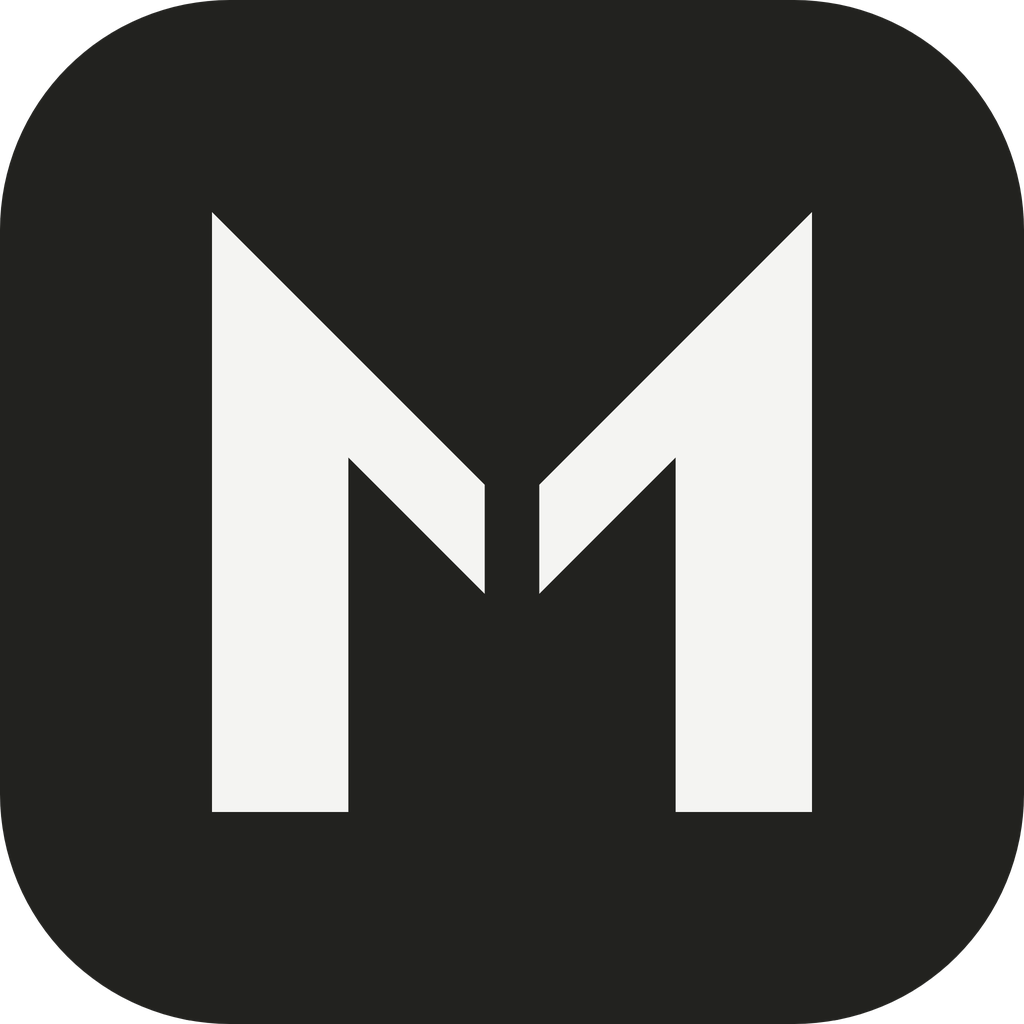
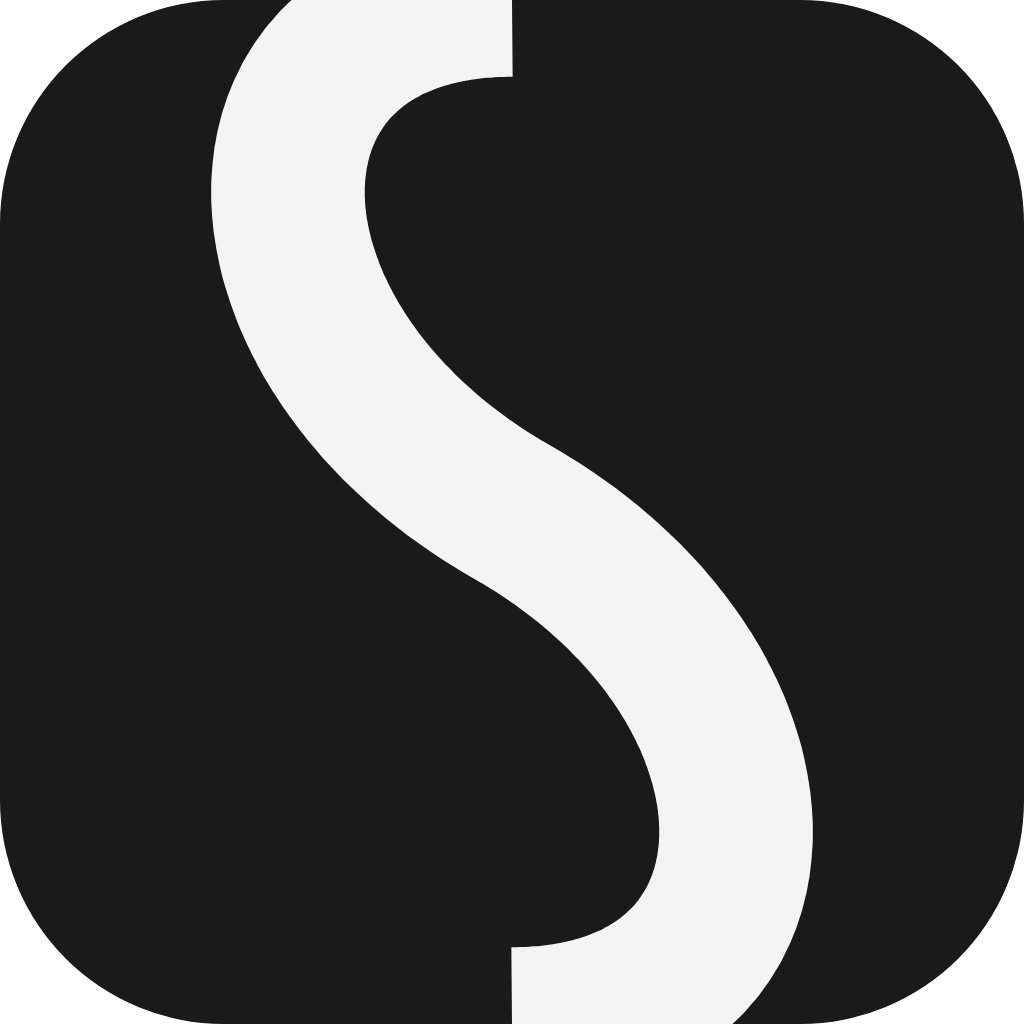
docs: correct display routing and adopt the EmergeShift brand
Show both compositors as clients of the display broker, add Route B, and
replace the old M mark with the new identity-kit assets.

diff --git a/brand/README.md b/brand/README.md
@@ -1,117 +1,22 @@
-# mixumOS 品牌标记
+# mixumOS brand
 
-> v0.2 · 2026.10 · 资产位于 `mixumos/brand/`
+Product mark from the **EmergeShift identity kit**: the same square, cut by a
+7.2-unit seam. The seam is open — two states held apart, the workspace an agent
+lives in.
 
-![mixumOS 品牌页](brand-sheet.png)
-
-## 一句话
-
-**M 被从中间切开。缺口就是分叉。**
-
-M 是 mixum 的首字母，也是一条时间线：
-
-- **实心 M**：直角、切边，没有描边和圆头。它首先是一枚钢印，其次才是一个字母。
-- **4 单位切口**：从外谷点到内谷点，把 M 的头部切开。这是当前 head，也是下一次 fork / 回退的位置。
-- **左半 / 右半**：左半是已经发生的快照，右半是 agent 正在写入的未来；两半仍然拼成同一个 M。
-- **单色**：标志只用墨与纸。信号蓝属于界面、状态和链接，不属于标志。
-
-这一版参考的是 Arch / Debian / Red Hat / CentOS 的共同点：一个**实心、单色、能缩到 16 px** 的轮廓，而不是一个带两色分割或渐变的科技图标。
-
-## 标志
-
-| 项 | 值 |
+| File | Use |
 |---|---|
-| 视觉尺寸 | 44 × 44（画布 64） |
-| 左半 | `M10 52 V8 L30 28 V36 L20 26 V52 Z` |
-| 右半 | `M34 28 L54 8 V52 H44 V26 L34 36 Z` |
-| 切口 | `x 30–34`，`y 28–36`，4 × 8 单位 |
-| 描边 / 圆角 | 无 |
+| `svg/lockup-horizontal.svg` | README header, light backgrounds |
+| `svg/lockup-horizontal-inverse.svg` | dark backgrounds |
+| `svg/mark.svg` / `svg/mark-inverse.svg` | square mark |
+| `svg/app-icon.svg` | app icon / social preview |
+| `svg/avatar.svg` / `svg/avatar-ink.svg` | org and social avatars |
+| `svg/wordmark.svg` | wordmark only |
+| `png/` | raster exports (32–1024) |
 
-缩到 16 px 时，切口收成一条发丝线，它首先是一个加粗的 M；放大后才看见分叉。
+SVGs are the source of truth. Ink `#1A1A18`, paper `#F4F4F2`, transition blue
+`#3A46FF` (accent only, never the field). Keep the mark solid and single-colour;
+no radius, stroke, gradient or shadow.
 
-## 字标
-
-`mixumOS` 用 **Saira Condensed 700**，字距 -0.012 em，`mixum` 与 `OS` 之间额外 0.01 em。字标已全部转为轮廓，不依赖字体安装。
-
-为什么是 Saira Condensed：窄、方、笔画收口硬，和实心 M 的工程感一致；Plex Sans 那种圆润的默认字形会把它拉回 SaaS 图标。
-
-字标全墨。信号蓝只在界面里出现；不要把 `OS` 单独上蓝，也不要改字标的字重或字距。
-
-## 颜色
-
-| Token | Hex | 用法 |
-|---|---|---|
-| 墨色 Ink | `#22221F` | 标志、正文、深色底 |
-| 纸白 Paper | `#F4F4F2` | 浅色底、反白 |
-| 信号蓝 Signal Blue | `#3A6EA5` | 界面、状态、链接；**不用于标志** |
-| 浅信号蓝 Light Blue | `#7FB3DC` | 深色界面上的蓝 |
-
-对比度：墨 / 纸 **14.5:1**；蓝 / 纸 **4.8:1**；浅蓝 / 墨 **7.1:1**。**不要**把 `#3A6EA5` 放在 `#22221F` 上（3.0:1）。
-
-## 尺寸与清空区
-
-- 标志：数字 16 px / 印刷 6 mm 起。
-- 横排锁定：数字 140 px 宽 / 印刷 30 mm 起。
-- 竖排锁定：数字 100 px 宽 / 印刷 25 mm 起。
-- 清空区：标志四周 ≥ 0.5 × 标志高度；锁定组合四周 ≥ 0.5 × 字标 cap height。
-- 低于最小尺寸时，只用标志，不用锁定组合。
-
-## 用法
-
-**用**
-
-- 浅色底用 `logo-*.svg`，深色底用 `logo-*-inverse.svg`。
-- 单色印刷、烫金、刻字用 `logo-*-mono.svg`（`currentColor`）。
-- 应用启动器 / 桌面用 `app-icon.svg`；圆形遮罩 / 自适应图标用 `app-icon-maskable.svg`。
-- 需要方形构图时用竖排锁定。
-
-**不要**
-
-- 不要改变左右两半的比例，不要把切口合上或改成装饰线。
-- 不要给标志上色，不要把蓝色放进标志。
-- 不要加阴影、描边、斜面、3D、发光或渐变。
-- 不要旋转、拉伸、倾斜；不要自行改字距或换字体。
-- 不要把深色底的蓝换成 `#3A6EA5`（用 `#7FB3DC`）。
-
-## 文件
-
-| 文件 | 内容 |
-|---|---|
-| `logo-mark.svg` | 标志，浅色底，透明背景，52 × 52 |
-| `logo-mark-inverse.svg` | 标志，深色底 |
-| `logo-mark-mono.svg` | 单色（`currentColor`） |
-| `logo-wordmark.svg` | 字标全墨，331 × 75 |
-| `logo-wordmark-inverse.svg` | 字标反白 |
-| `logo-wordmark-mono.svg` | 字标单色 |
-| `logo-lockup-horizontal.svg` | 横排锁定全墨，418 × 75 |
-| `logo-lockup-horizontal-inverse.svg` | 横排反白 |
-| `logo-lockup-horizontal-mono.svg` | 横排单色 |
-| `logo-lockup-stacked.svg` | 竖排锁定，331 × 196 |
-| `logo-lockup-stacked-inverse.svg` / `-mono.svg` | 竖排反白 / 单色 |
-| `app-icon.svg` | 1024 圆角方，墨底纸 M |
-| `app-icon-paper.svg` | 1024 圆角方，纸底墨 M |
-| `app-icon-maskable.svg` | 1024 满幅，自适应图标安全区 |
-| `brand-sheet.png` | 品牌页 |
-| `preview.png` | 发行版语境预览（boot / 终端 / 贴纸） |
-| `png/` | 常用 PNG 导出 |
-
-## 修改
-
-标志是两条实心路径：直接改 `logo-mark.svg` 里的两条 `path`，再同步 `-inverse` / `-mono` 和锁定组合。切口的位置和宽度由左右两条路径的 `x 30/34`、`y 28/36` 决定。
-
-字标是轮廓。改字需要重新从 Saira Condensed 700 生成；`mixum` 与 `OS` 分属两条 path，目前同为墨色；不要把 `OS` 单独上蓝。
-
-## 后续（裸金属）
-
-这个标记按“能缩到 16 px、能单色、能做启动画面”设计：
-
-- **Plymouth / systemd-boot / GRUB**：深色底 + `logo-mark-inverse`，字标在下方，版本号用 Plex Mono。
-- **安装器**：左上角横排锁定，主按钮用信号蓝。
-- **终端登录 banner**：标志的 ASCII 版本 + `mixumOS 0.1.x`。
-- **包管理器 / 桌面图标**：`app-icon.svg`。
-
-现有 console 的 PWA 图标仍是占位；要替换时，用 `png/app-icon-*.png` 覆盖 `console/public/icons/`，本次没有改动代码。
-
-## 字体
-
-字标基于 **Saira Condensed 700**（SIL OFL 1.1）转为轮廓；技术标签用 IBM Plex Mono 500（SIL OFL 1.1）。本目录不包含字体文件。
+The wordmark is Inter SemiBold, outlined. Inter is SIL OFL 1.1; the outlines are
+part of this Apache-2.0 repository.

diff --git a/README.md b/README.md
@@ -1,5 +1,5 @@
 <div align="center">
-  <img src="brand/logo-lockup-horizontal.svg" alt="mixumOS" width="440">
+  <img src="brand/svg/lockup-horizontal.svg" alt="mixumOS" width="440">
   <h3>An early attempt at an agent OS that can rewind, fork, and move.</h3>
   <p>An Arch-based operating system for AI agents: containerized workspaces, git-like snapshot trees,<br/>native GUI windows streamed to any device, and state that travels between machines.</p>
   <p>
@@ -111,13 +111,22 @@ flowchart LR
     A --> T["Task engine"]
     A --> S["Snapshot engine"]
     A --> D["Display broker"]
-    D -->|"AF_UNIX"| C["mixcomp<br/>wlroots 0.18"]
+    D -->|"display.sock · A"| C["mixcomp<br/>C / wlroots 0.18"]
+    D -->|"display.sock · B"| B["mixum-env-compositor<br/>Rust / Smithay (optional)"]
     S --> CAS[("CAS + snapshot DAG")]
     A <-->|"snap.push / CAS sync"| R["Remote Node"]
     A -->|"MAP-Bridge · stdio JSON"| X["Agent process"]
+    C -->|"wayland-0"| G["GUI apps"]
+    B -->|"mixum-art-0"| G
     C --> W["Per-window buffers<br/>+ damage"]
+    B --> W
     W --> D
 ```
+
+`mixcomp` (Route A) is bundled and is the compatibility baseline. Route B is
+optional: MixumART supplies `mixum-env-compositor`, which runs inside the
+container and connects to the same `/run/mixum/display.sock` broker. The broker
+is the only component that speaks MAP over WSS to the host.
 
 | Component | Language | Responsibility |
 |---|---|---|
@@ -125,7 +134,8 @@ flowchart LR
 | `mixum-snapshot` | Rust | Content-addressed store, manifests, snapshot tree DAG, CRIU, GC |
 | `mixum-protocol` | Rust | Envelope, ops, tokens, binary frame headers |
 | `mixum-ctl` | Rust | Host CLI: connect, tasks, snapshots, file transfer, window view, power hooks |
-| `mixcomp` | C | Per-window capture and input injection on wlroots 0.18 |
+| `mixcomp` | C | Bundled Route A compositor; per-window capture and input injection on wlroots 0.18 |
+| `mixum-env-compositor` (optional) | Rust | Route B Smithay compositor, supplied by MixumART; connects to the same display broker |
 | `console/` | TypeScript | Installable PWA: tasks, window canvas, snapshot tree |
 | `mixum-gateway` / `mixum-operator` | Rust | Cloud routing and Kubernetes operator (early) |
 | `dist/` | Shell + PKGBUILD | Packages → pacman repo → rootfs/OCI images |

diff --git a/README.zh-CN.md b/README.zh-CN.md
@@ -1,5 +1,5 @@
 <div align="center">
-  <img src="brand/logo-lockup-horizontal.svg" alt="mixumOS" width="440">
+  <img src="brand/svg/lockup-horizontal.svg" alt="mixumOS" width="440">
   <h3>一个还在早期、尝试让 agent 能回退、分叉和迁移的操作系统。</h3>
   <p>基于 Arch Linux 的 AI agent 操作系统：容器化工作区、类 Git 的快照树、<br/>以原生窗口流到任意设备的 GUI，以及可在机器之间迁移的工作状态。</p>
   <p>
@@ -107,13 +107,21 @@ flowchart LR
     A --> T["任务引擎"]
     A --> S["快照引擎"]
     A --> D["显示 broker"]
-    D -->|"AF_UNIX"| C["mixcomp<br/>wlroots 0.18"]
+    D -->|"display.sock · A"| C["mixcomp<br/>C / wlroots 0.18"]
+    D -->|"display.sock · B"| B["mixum-env-compositor<br/>Rust / Smithay（可选）"]
     S --> CAS[("CAS + 快照 DAG")]
     A <-->|"snap.push / CAS 同步"| R["远端 Node"]
     A -->|"MAP-Bridge · stdio JSON"| X["Agent 进程"]
+    C -->|"wayland-0"| G["GUI 应用"]
+    B -->|"mixum-art-0"| G
     C --> W["逐窗口 buffer<br/>+ damage"]
+    B --> W
     W --> D
 ```
+
+`mixcomp`（Route A）是内置的兼容基线。Route B 是可选的：MixumART 提供
+`mixum-env-compositor`，在容器内运行，连接同一个 `/run/mixum/display.sock`
+broker。只有 broker 通过 MAP over WSS 连到宿主。
 
 | 组件 | 语言 | 职责 |
 |---|---|---|
@@ -121,7 +129,8 @@ flowchart LR
 | `mixum-snapshot` | Rust | 内容寻址存储、清单、快照树 DAG、CRIU、GC |
 | `mixum-protocol` | Rust | Envelope、ops、令牌、二进制帧头 |
 | `mixum-ctl` | Rust | 主机 CLI：连接、任务、快照、文件传输、窗口视图、电力钩子 |
-| `mixcomp` | C | wlroots 0.18 上的逐窗口捕获与输入注入 |
+| `mixcomp` | C | 内置 Route A 合成器；wlroots 0.18 上的逐窗口捕获与输入注入 |
+| `mixum-env-compositor`（可选） | Rust | Route B Smithay 合成器，由 MixumART 提供；连接同一个显示 broker |
 | `console/` | TypeScript | 可安装 PWA：任务、窗口画布、快照树 |
 | `mixum-gateway` / `mixum-operator` | Rust | 云端路由与 Kubernetes operator（早期） |
 | `dist/` | Shell + PKGBUILD | 包 → pacman 仓库 → rootfs/OCI 镜像 |

diff --git a/THIRD_PARTY_NOTICES.md b/THIRD_PARTY_NOTICES.md
@@ -16,7 +16,7 @@ substitute for the license text shipped by each upstream project.
 | zstd | BSD-3-Clause | |
 | libpng | libpng / zlib | |
 | xorg-xwayland | MIT | optional X11 backend |
-| Saira Condensed, IBM Plex Mono | SIL OFL 1.1 | brand outlines only; no font files are shipped |
+| Inter SemiBold | SIL OFL 1.1 | wordmark outlines only; no font files are shipped |
 | Rust crates | MIT / Apache-2.0 / BSD / ISC / Unicode-3.0; a few MPL-2.0 (option-ext) | see `rust/Cargo.lock`; MPL notices retained |
 | Console build deps | MIT / ISC / Apache-2.0; `caniuse-lite` data is CC-BY-4.0 | see `console/package-lock.json` |
 
